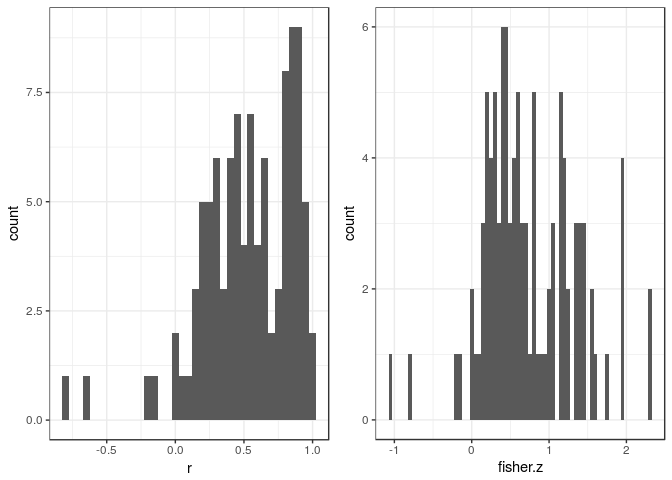
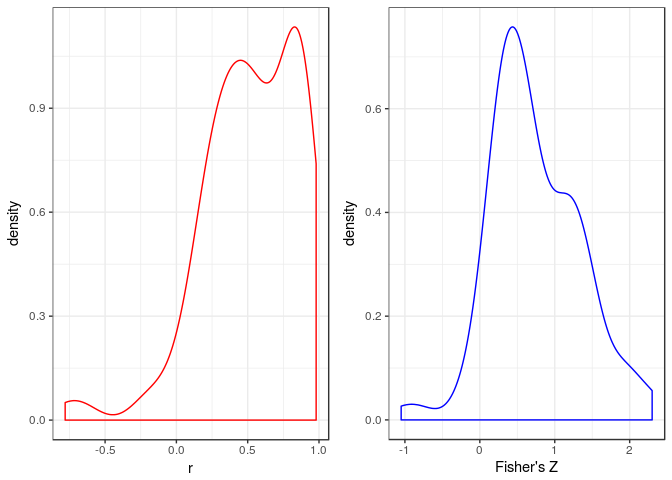
day 4...

diff --git a/pages/Day4.md b/pages/Day4.md
@@ -50,7 +50,9 @@ head(curtis_ESS)
     ## 6  0.81  0.01       8     1.13  0.20
 
 ``` r
-r_z<-ggplot(curtis_ESS, aes(x=r, y=fisher.z))+geom_point() +theme_bw()
+r_z<-ggplot(curtis_ESS, aes(x=r, y=fisher.z))+geom_point() +
+  
+    geom_abline(intercept = 0, slope = 1,colour="red")+theme_bw()
 
 r_z
 ```
@@ -59,11 +61,11 @@ r_z
 
 ``` r
 hist_r<-ggplot(curtis_ESS, aes(r)) +
-  geom_histogram(binwidth = 0.05)+theme_bw()
+  geom_density(colour="red")+xlab("r")+theme_bw()
 
 
 hist_z<-ggplot(curtis_ESS, aes(fisher.z)) +
-  geom_histogram(binwidth = 0.05)+theme_bw()
+  geom_density(color="blue")+xlab("Fisher's Z")+theme_bw()
 
 ab<-plot_grid(hist_r, hist_z, ncol=2)
 ab
@@ -88,3 +90,9 @@ forest.cumul.rma(cum_re)
 
 Controlling for shared evolutionary history (phylogeny)
 -------------------------------------------------------
+
+add pez, ade4 (?)
+=================
+
+upload phylogeny to files
+=========================

diff --git a/index.md b/index.md
@@ -7,7 +7,7 @@ title: Exercises for 'Meta-analysis in biological and environmental sciences'
 
 ### Before our course 
 
-1) Read a [general overview of 'metafor'](http://www.jstatsoft.org/v36/i03/), the principal R package that we will be using in this course.    
+1) Read a [general overview of 'metafor'](http://www.jstatsoft.org/v36/i03/), the principal R package that we will be during this course.    
 2) Install [R](https://cran.r-project.org/) and [RStudio](https://www.rstudio.com/products/rstudio/download/).  
 3) Install the following packages:
 

diff --git a/pages/Day3.md b/pages/Day3.md
@@ -1,4 +1,4 @@
-Assumptions, biases, and confounding effects
+Assumptions and biases
 ================
 
 Getting started
